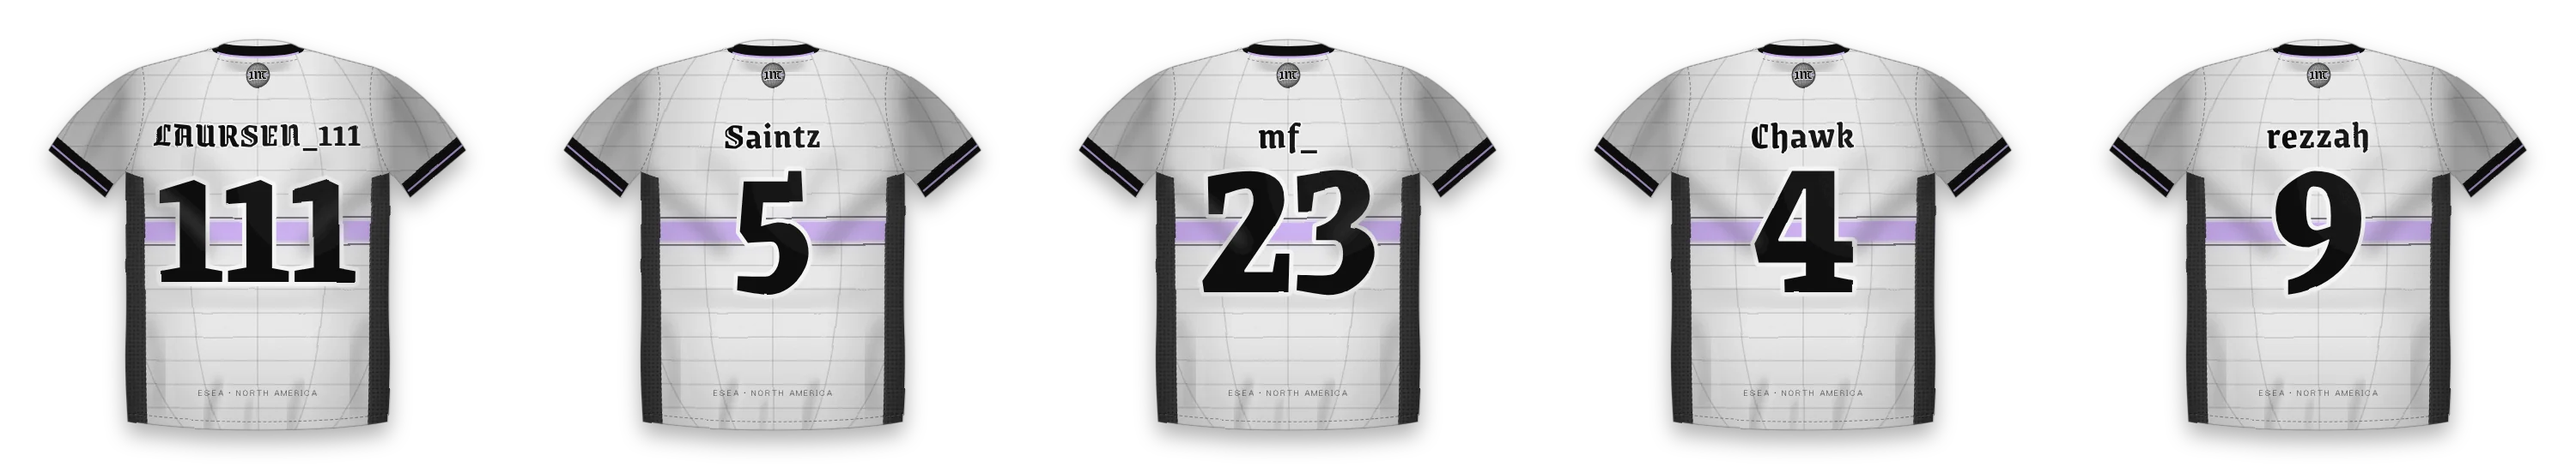
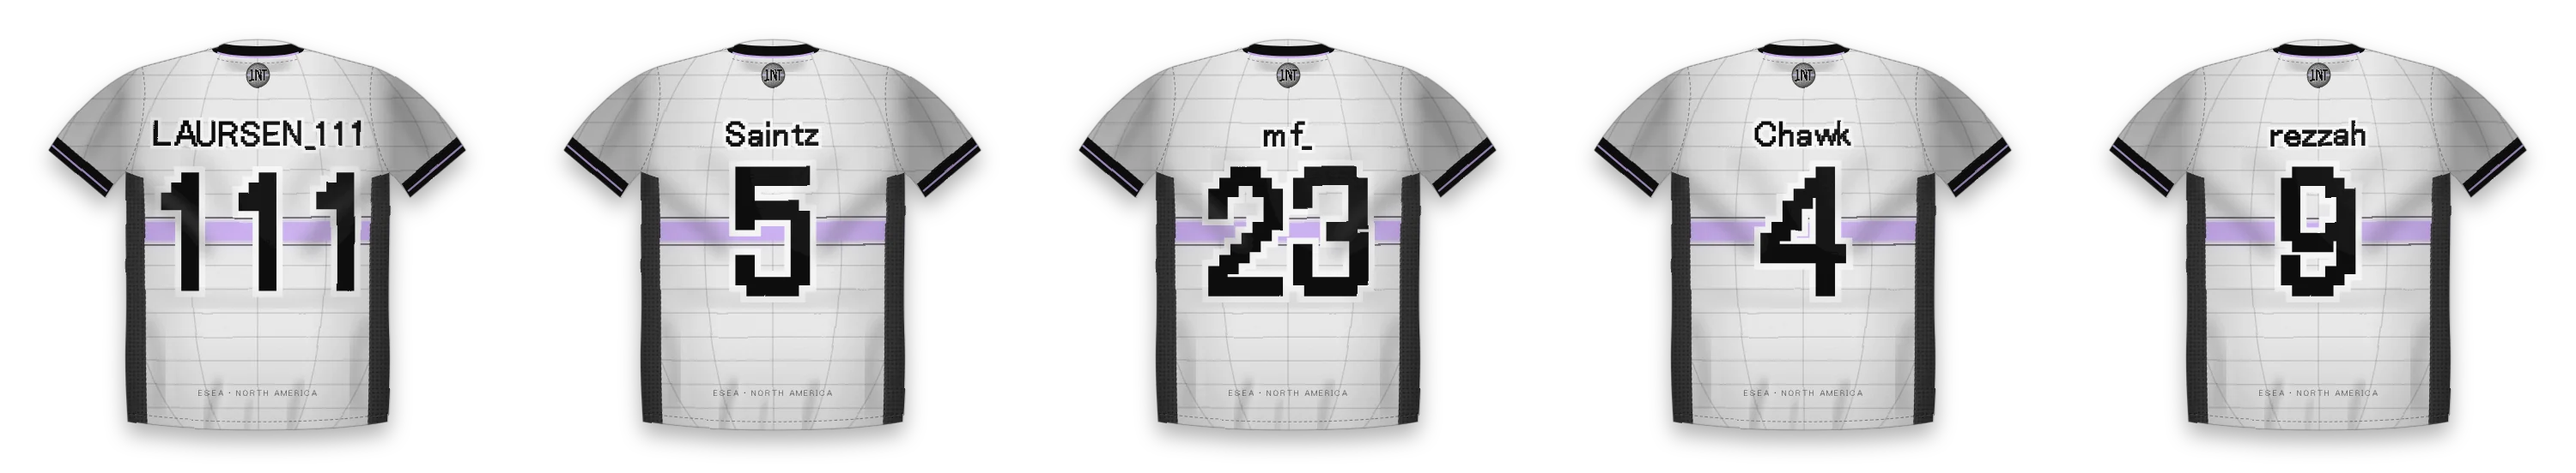
1NT kit: crest as the chest mark, pixel-font names and numbers on the band (#488)
The chest wordmark becomes a 35 cm crest centred on the chest with its equator on
the band; the crest's letters are the avatar's own cells. Names and numbers use
the site's pixel font, bolded to two-pixel strokes, with the number centred on the
band like the avatar's letters on its equator. Sponsor and captain C mirror each
other above the crest. Guide copy and anatomy pins follow.

Claude-Session: https://claude.ai/code/session_01HcDrTf4yWcwj9oYhxx6sEJ

diff --git a/layouts/shortcodes/kitguide1nt.html b/layouts/shortcodes/kitguide1nt.html
@@ -36,8 +36,9 @@
 .kg-bar span{display:block;height:100%}
 .kg-note{font-size:.8rem;color:var(--kg-mute)}
 .kg-type{font-family:"Grenze Gotisch",serif;font-weight:800;color:var(--kg-ink);line-height:1;font-feature-settings:"lnum"}
-.kg-type--tag{font-weight:700;font-size:clamp(1.8rem,7vw,2.8rem);letter-spacing:.06em;-webkit-text-stroke:0;text-shadow:0 0 0 #fff}
-.kg-type--num{font-size:clamp(3.4rem,15vw,6rem);letter-spacing:-.03em}
+.kg-type--px{font-family:"MS PGothic Pixel",monospace;font-weight:normal;-webkit-text-stroke:.047em currentColor;letter-spacing:.02em}
+.kg-type--tag{font-size:clamp(1.6rem,7vw,2.4rem)}
+.kg-type--num{font-size:clamp(3rem,14vw,5rem);margin:.2rem 0}
 .kg-rim{paint-order:stroke fill;-webkit-text-stroke:6px #fff;text-stroke:6px #fff}
 .kg-spec{width:100%;border-collapse:collapse;font-size:.85rem;margin:.6rem 0 0}
 .kg-spec th,.kg-spec td{border-bottom:1px solid var(--kg-rule);padding:.4rem .3rem;text-align:left;vertical-align:top;color:var(--kg-ink);background:transparent}
@@ -69,7 +70,7 @@
   <div class="kg-cap">
     <p class="kg-kick">ESEA League · North America · jersey branding guide</p>
     <h2 class="kg-title">1NT kit, 2026</h2>
-    <p>Three jerseys built from the team avatar: the wireframe globe, the glowing equator and the tall 1NT letters. Home is the globe's grey-white, away is black, the alternate is lilac. Every rule below exists so a kit reads as 1NT at stream resolution, 720p in a corner of a webcam frame.</p>
+    <p>Three jerseys built from the team avatar: the wireframe globe, the glowing equator and the tall 1NT letters, with the crest as the chest mark. Home is the globe's grey-white, away is black, the alternate is lilac. Every rule below exists so a kit reads as 1NT at stream resolution, 720p in a corner of a webcam frame.</p>
   </div>
 </div></section>
 
@@ -84,7 +85,7 @@
       </div>
     </div>
     <div>
-      <p>The crest redraws the avatar at print resolution. The globe keeps its nine parallels and four meridian pairs, lit from the upper left; the equator stays the one coloured element. The letters move to Grenze Gotisch with a light rim, so the mark ties to the lettering on the back.</p>
+      <p>The crest redraws the avatar at print resolution. The globe keeps its nine parallels and four meridian pairs, lit from the upper left; the equator stays the one coloured element. The letters are the avatar's own, cell for cell: tall two-pixel strokes with a light rim. On the jersey it is the chest mark, 35 cm across, its equator running straight into the shirt's band.</p>
       <ul class="kg-list">
         <li><b>Clear space:</b> a quarter of the crest's diameter on every side (the hatched area).</li>
         <li><b>Minimum size:</b> 40 mm on fabric, 24 px on screen. Below 24 px use the pixel avatar.</li>
@@ -117,15 +118,15 @@
   <p class="kg-kick">03</p><h2 class="kg-h">Lettering and numbers</h2>
   <div class="kg-two">
     <div>
-      <div class="kg-type kg-type--tag">LAURSEN_111</div>
-      <div class="kg-type kg-type--num">0123456789</div>
-      <div class="kg-type" style="font-size:2.6rem">1NT</div>
+      <div class="kg-type kg-type--px kg-type--tag">LAURSEN_111</div>
+      <div class="kg-type kg-type--px kg-type--num">0123456789</div>
+      <div class="kg-type" style="font-size:2.6rem">1NT kit</div>
     </div>
     <div>
-      <p><b>Grenze Gotisch</b> (OFL), a clean gothic: broken strokes without blackletter clutter, so a gamertag stays legible across the shoulders.</p>
+      <p>Names and numbers are set in <b>the site's pixel font</b> (MS PGothic's 16 px bitmap, the DS-style face used across arkndjl.net), bolded to two-pixel strokes so they match the crest's tall 1NT letters. <b>Grenze Gotisch</b> stays for headings in print and in this guide.</p>
       <table class="kg-spec">
-        <tr><th>Gamertag</th><td>weight 700, tracking +3%, cap height 5 cm, centred on the spine 17 cm below the collar, at most 42 cm wide. Set as written, case and underscores kept.</td></tr>
-        <tr><th>Number</th><td>weight 800, lining figures, 25 cm tall, tracking -2%, centred on the spine and on the equator band so the band passes behind its middle.</td></tr>
+        <tr><th>Gamertag</th><td>pixel font, bolded, tracking +2%, cap height 5 cm, centred on the spine 17 cm below the collar, at most 44 cm wide. Set as written, case and underscores kept.</td></tr>
+        <tr><th>Number</th><td>pixel font, bolded, 25 cm tall, centred on the spine with its middle on the equator band, the way the avatar's letters sit on its equator.</td></tr>
         <tr><th>Rim</th><td>every letter and number gets a rim in the opposite neutral (white on light kits' black letters, black on away), 5% of the glyph height.</td></tr>
         <tr><th>Small text</th><td>sponsor and league lines in the site's pixel font, tracked wide.</td></tr>
       </table>
@@ -138,16 +139,15 @@
   <p class="kg-kick">04</p><h2 class="kg-h">Anatomy</h2>
   <div class="kg-anat">
     <img class="kg-img" src="{{ printf "%s1nt-kit-anatomy.webp" $img | relURL }}" width="1000" height="920" alt="home jersey front with numbered callouts" loading="lazy">
-    {{- range (slice (slice 1 50 9) (slice 2 61.2 25.7) (slice 3 38.8 25.7) (slice 4 61.2 33.3) (slice 5 50 49) (slice 6 73 49) (slice 7 50 75) (slice 8 26.5 66) (slice 9 15.2 36.5) (slice 10 21.3 29.6) (slice 11 78.7 29.6)) }}
+    {{- range (slice (slice 1 50 9) (slice 2 50 37) (slice 3 38.8 25.7) (slice 4 61.2 25.7) (slice 5 71 49) (slice 6 50 78) (slice 7 26.5 66) (slice 8 15.2 36.5) (slice 9 21.3 29.6) (slice 10 78.7 29.6)) }}
     <span class="kg-pin" style="left:{{ index . 1 }}%;top:{{ index . 2 }}%">{{ index . 0 }}</span>
     {{- end }}
   </div>
   <ol class="kg-ol">
     <li>Rib crew collar, 2.2 cm, ink, with a 3 mm lilac tipping line and a printed neck label.</li>
-    <li>Crest, wearer's left chest, 9 cm, 11 cm off the centre line.</li>
-    <li>Sponsor: the ARKNDJL glyph and wordmark, wearer's right chest, mirroring the crest's height and offset.</li>
-    <li>Captain mark, a C in a lilac-edged tab, under the crest (captain only).</li>
-    <li>1NT wordmark, centred on the chest and on the band, 18 cm tall.</li>
+    <li>Crest, centred on the chest, 35 cm, its equator on the band.</li>
+    <li>Sponsor: the ARKNDJL glyph and wordmark, wearer's right chest, 11 cm off the centre line.</li>
+    <li>Captain mark, a C in a lilac-edged tab, mirroring the sponsor on the left chest (captain only).</li>
     <li>Equator band, 3.6 cm, full width, with 3 mm ink pinlines above and below.</li>
     <li>Wireframe globe, sublimated over the whole body at 13% (home) to 30% (away).</li>
     <li>Steel mesh side panels from armpit to hem, for airflow under headset-length sessions.</li>
@@ -192,7 +192,7 @@
   <p class="kg-kick">07</p><h2 class="kg-h">Usage rules</h2>
   <div class="kg-do">
     <div><h3>Do</h3><ul class="kg-list">
-      <li>Keep the band level and unbroken; only the wordmark or number may sit over it.</li>
+      <li>Keep the band level and unbroken; only the crest or number may sit over it, centred on it.</li>
       <li>Rim every letter, so it holds on the globe lines.</li>
       <li>Wear away against light opponents and on bright LAN stages; home everywhere else.</li>
       <li>Match the headset or webcam frame to the band colour on stream.</li>
@@ -200,8 +200,8 @@
     <div><h3>Don't</h3><ul class="kg-list">
       <li>Recolour the crest or put the globe on a dark purple.</li>
       <li>Mix aquamarine into home or away.</li>
-      <li>Swap Grenze Gotisch for a blackletter; it stops reading at stream size.</li>
-      <li>Add sponsor marks inside the band or over the wordmark.</li>
+      <li>Set names or numbers in any face but the pixel font, or leave them one pixel thin.</li>
+      <li>Add sponsor marks inside the band or over the crest.</li>
     </ul></div>
   </div>
   <p class="kg-note">Renders by scripts/jersey_1nt.py. Team page: <a href="{{ "laursen_111/" | relURL }}">1NT/LAURSEN_111</a>. The ARKNDJL uniforms have their own guide.</p>

diff --git a/scripts/jersey_1nt.py b/scripts/jersey_1nt.py
@@ -106,11 +106,15 @@ _FONTS = {}
 
 
 def ink(text, weight):
-    """Ink box of text in Grenze Gotisch at 1 em, lining figures: (advance per glyph list, left, right, bottom, top)."""
+    """Per-glyph (advance, ink bounds) at 1 em: Grenze Gotisch at a weight with lining figures, or (weight None) the
+    site's pixel font."""
     if weight not in _FONTS:
         from fontTools.ttLib import TTFont
-        from fontTools.varLib import instancer
-        f = instancer.instantiateVariableFont(TTFont(FONT), {"wght": weight})
+        if weight is None:
+            f = TTFont(PIXEL)
+        else:
+            from fontTools.varLib import instancer
+            f = instancer.instantiateVariableFont(TTFont(FONT), {"wght": weight})
         _FONTS[weight] = (f.getGlyphSet(), f.getBestCmap(), f["head"].unitsPerEm)
     from fontTools.pens.boundsPen import BoundsPen
     gs, cmap, upm = _FONTS[weight]
@@ -125,7 +129,7 @@ def ink(text, weight):
 
 
 def gothic(text, cx, cy, height, weight, fill, rim=None, sw=0, spacing=0.0, maxw=None):
-    """Text in Grenze Gotisch whose ink box is centred on (cx, cy) with the given ink height (caps and lining
+    """Text in Grenze Gotisch (or the pixel font, weight None) whose ink box is centred on (cx, cy) with the given ink height (caps and lining
     figures), shrunk to maxw. Positioned from the outlines, so it is optically centred whatever the anchor rules."""
     g = ink(text, weight)
     def box(size):
@@ -142,13 +146,26 @@ def gothic(text, cx, cy, height, weight, fill, rim=None, sw=0, spacing=0.0, maxw
     l, r, bot, top = box(size)
     x0 = cx - (l + r) / 2
     base = cy + (top + max(bot, 0)) / 2
-    st = f' stroke="{rim}" stroke-width="{sw}" paint-order="stroke" stroke-linejoin="round"' if rim else ""
-    return (f'<text x="{x0:.1f}" y="{base:.1f}" font-family="Grenze Gotisch" font-weight="{weight}" font-size="{size:.1f}" '
-            f'letter-spacing="{spacing * size:.2f}" style="font-feature-settings:\'lnum\'" fill="{fill}"{st}>{text}</text>')
+    head = f'<text x="{x0:.1f}" y="{base:.1f}" font-size="{size:.1f}" letter-spacing="{spacing * size:.2f}" '
+    if weight:
+        st = f' stroke="{rim}" stroke-width="{sw}" paint-order="stroke" stroke-linejoin="round"' if rim else ""
+        return f'{head}font-family="Grenze Gotisch" font-weight="{weight}" style="font-feature-settings:\'lnum\'" fill="{fill}"{st}>{text}</text>'
+    # pixel font: its strokes are one pixel (1/16 em) wide, so a same-colour stroke of .75 pixel makes them bold
+    # like the avatar's letters without closing small counters; the rim is a wider copy underneath
+    px = size / 16 * .75
+    out = ""
+    if rim:
+        out += f'{head}font-family="MS PGothic Pixel" fill="{rim}" stroke="{rim}" stroke-width="{px + 2 * sw:.1f}" stroke-linejoin="miter">{text}</text>'
+    return out + f'{head}font-family="MS PGothic Pixel" fill="{fill}" stroke="{fill}" stroke-width="{px:.1f}" stroke-linejoin="miter">{text}</text>'
+
+
+# the avatar's tall 1NT letters, cell for cell from px-1nt in scripts/pixelart.py (32-cell grid, globe radius 14.6)
+AVATAR_1NT = ("M7 9h2v14h-2z M6 10h1v1h-1z M5 11h1v1h-1z M6 9h1v1h-1z M4 21h7v2h-7z M12 9h2v14h-2z M18 9h2v14h-2z "
+              + " ".join(f"M{14 + round(k * 3 / 10)} {10 + k}h2v1h-2z" for k in range(11)) + " M21 9h7v2h-7z M23 9h2v14h-2z")
 
 
 def crest(cx, cy, r, band=LILAC, uid="c"):
-    """1NT crest: shaded wireframe globe, glowing equator, tall 1NT in Grenze Gotisch with a light rim."""
+    """1NT crest: the avatar redrawn: shaded wireframe globe, glowing equator, its tall 1NT letters with a light rim."""
     s = r / 50
     return (f'<g transform="translate({cx} {cy}) scale({s:.4f})">'
             f'<defs><radialGradient id="cg{uid}" cx=".34" cy=".3" r=".8"><stop offset="0" stop-color="{CHALK}"/>'
@@ -157,7 +174,8 @@ def crest(cx, cy, r, band=LILAC, uid="c"):
             f'<circle r="50" fill="{STEEL}"/><circle r="46" fill="url(#cg{uid})"/>'
             f'<g clip-path="url(#cc{uid})">{grid(0, 0, 46, "#3e3e3e", .9, 1.4)}'
             f'<rect x="-50" y="-3.2" width="100" height="6.4" fill="{band}"/></g>'
-            + gothic("1NT", 0, 0, 42, 800, INK, WHITE, 5, -.02, maxw=76) + "</g>")
+            + f'<path d="{AVATAR_1NT}" transform="scale({50 / 15.2:.4f}) translate(-16 -16)" fill="{INK}" stroke="{WHITE}" '
+            f'stroke-width=".9" paint-order="stroke" stroke-linejoin="miter"/></g>')
 
 
 def glyph(x, y, size, color):
@@ -221,24 +239,24 @@ def jersey(kit, side, player=None, uid="j"):
     p.append(f'<rect x="100" y="432" width="800" height="36" fill="{k["band"]}"/>')
     p.append(f'<rect x="100" y="422" width="800" height="3" fill="{k["ink"]}" opacity=".55"/><rect x="100" y="475" width="800" height="3" fill="{k["ink"]}" opacity=".55"/>')
     if side == "front":
-        # chest: wordmark centred on the band; crest (wearer's left) and sponsor (right) mirrored about the centre
-        # line at the same height, 11 cm out and 13 cm under the shoulder seam, like a club crest and kit-maker mark
-        p.append(gothic("1NT", 500, 450, 172, 800, k["ink"], k["rim"], 14, -.015, maxw=380))
-        p.append(crest(500 + CHEST_DX, CHEST_Y, 44, k["band"], u))
+        # chest: the crest is the chest mark, centred, its equator on the band; sponsor (wearer's right) and the
+        # captain's C (left) mirror each other above it, 11 cm out and 13 cm under the shoulder seam
+        p.append(crest(500, 450, 168, k["band"], u))
         p.append(glyph(500 - CHEST_DX - 23, CHEST_Y - 40, 46, k["ink"]))
         # +1: half the trailing letter-spacing, which text-anchor counts as part of the run
         p.append(f'<text x="{500 - CHEST_DX + 1}" y="{CHEST_Y + 40}" text-anchor="middle" font-family="MS PGothic Pixel" font-size="17" letter-spacing="2" '
                  f'fill="{k["ink"]}">ARKNDJL</text>')
-        if cap:  # captain tab on the crest's centre line, under it
-            p.append(f'<g transform="translate({500 + CHEST_DX} {CHEST_Y + 70})"><rect x="-16" y="-18" width="32" height="36" rx="4" fill="{k["trim"]}" stroke="{k["band"]}" stroke-width="2.5"/>'
-                     + gothic("C", 0, 0, 20, 800, k["band"]) + "</g>")
+        if cap:
+            p.append(f'<g transform="translate({500 + CHEST_DX} {CHEST_Y})"><rect x="-22" y="-26" width="44" height="52" fill="{k["trim"]}" stroke="{k["band"]}" stroke-width="3"/>'
+                     + gothic("C", 0, 0, 28, None, k["band"]) + "</g>")
         # sleeve patches: centred on each sleeve, level with the cuff (so upright when the arm hangs)
         p.append(f'<g transform="translate({SLEEVE_X} {SLEEVE_Y}) rotate({SLEEVE_A})">{flag(fl, -24, -16, 48)}</g>')
         p.append(f'<g transform="translate({1000 - SLEEVE_X} {SLEEVE_Y}) rotate({-SLEEVE_A})">{glyph(-19, -19, 38, k["ink"])}</g>')
     else:
         # back: number centred on the band, nameplate centred above it, both on the centre line
-        p.append(gothic(tag, 500, 262, 50, 700, k["ink"], k["rim"], 6, .03, maxw=400))
-        p.append(gothic(num, 500, 450, 236, 800, k["ink"], k["rim"], 16, -.02, maxw=380))
+        # site pixel font: nameplate above, number centred on the band like the avatar's letters on its equator
+        p.append(gothic(tag, 500, 258, 46, None, k["ink"], k["rim"], 6, .02, maxw=420))
+        p.append(gothic(num, 500, 450, 236, None, k["ink"], k["rim"], 12, -.02, maxw=360))
         p.append(crest(500, 146, 24, k["band"], u + "n"))
         p.append(f'<text x="501.5" y="770" text-anchor="middle" font-family="MS PGothic Pixel" font-size="16" letter-spacing="3" fill="{k["ink"]}" opacity=".7">ESEA · NORTH AMERICA</text>')
 
